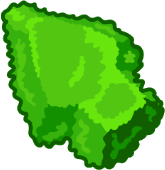
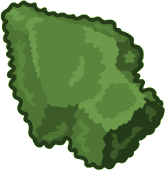
Refine 000GREEN moss cursor size to sleek 26px and calibrate colors to luxury tactical moss palette

diff --git a/src/index.css b/src/index.css
@@ -201,14 +201,14 @@ body {
   }
 }
 
-/* 000GREEN Official Moss Cursor (Extracted, recolored to match 000GREEN palette, 0ms hardware speed) */
+/* 000GREEN Official Moss Cursor (Refined palette, comfortable 26px size, 0ms hardware speed) */
 @media (hover: hover) and (pointer: fine) {
   html, body {
     cursor: url('/cursor-000green-default.png') 1 2, url('/cursor-000green-default.svg') 1 2, default !important;
   }
 
   a, button, input, select, textarea, [role="button"], .cursor-pointer, [data-cursor-interactive], label {
-    cursor: url('/cursor-000green-pointer.png') 10 0, url('/cursor-000green-pointer.svg') 10 0, pointer !important;
+    cursor: url('/cursor-000green-pointer.png') 8 0, url('/cursor-000green-pointer.svg') 8 0, pointer !important;
   }
 }
 
